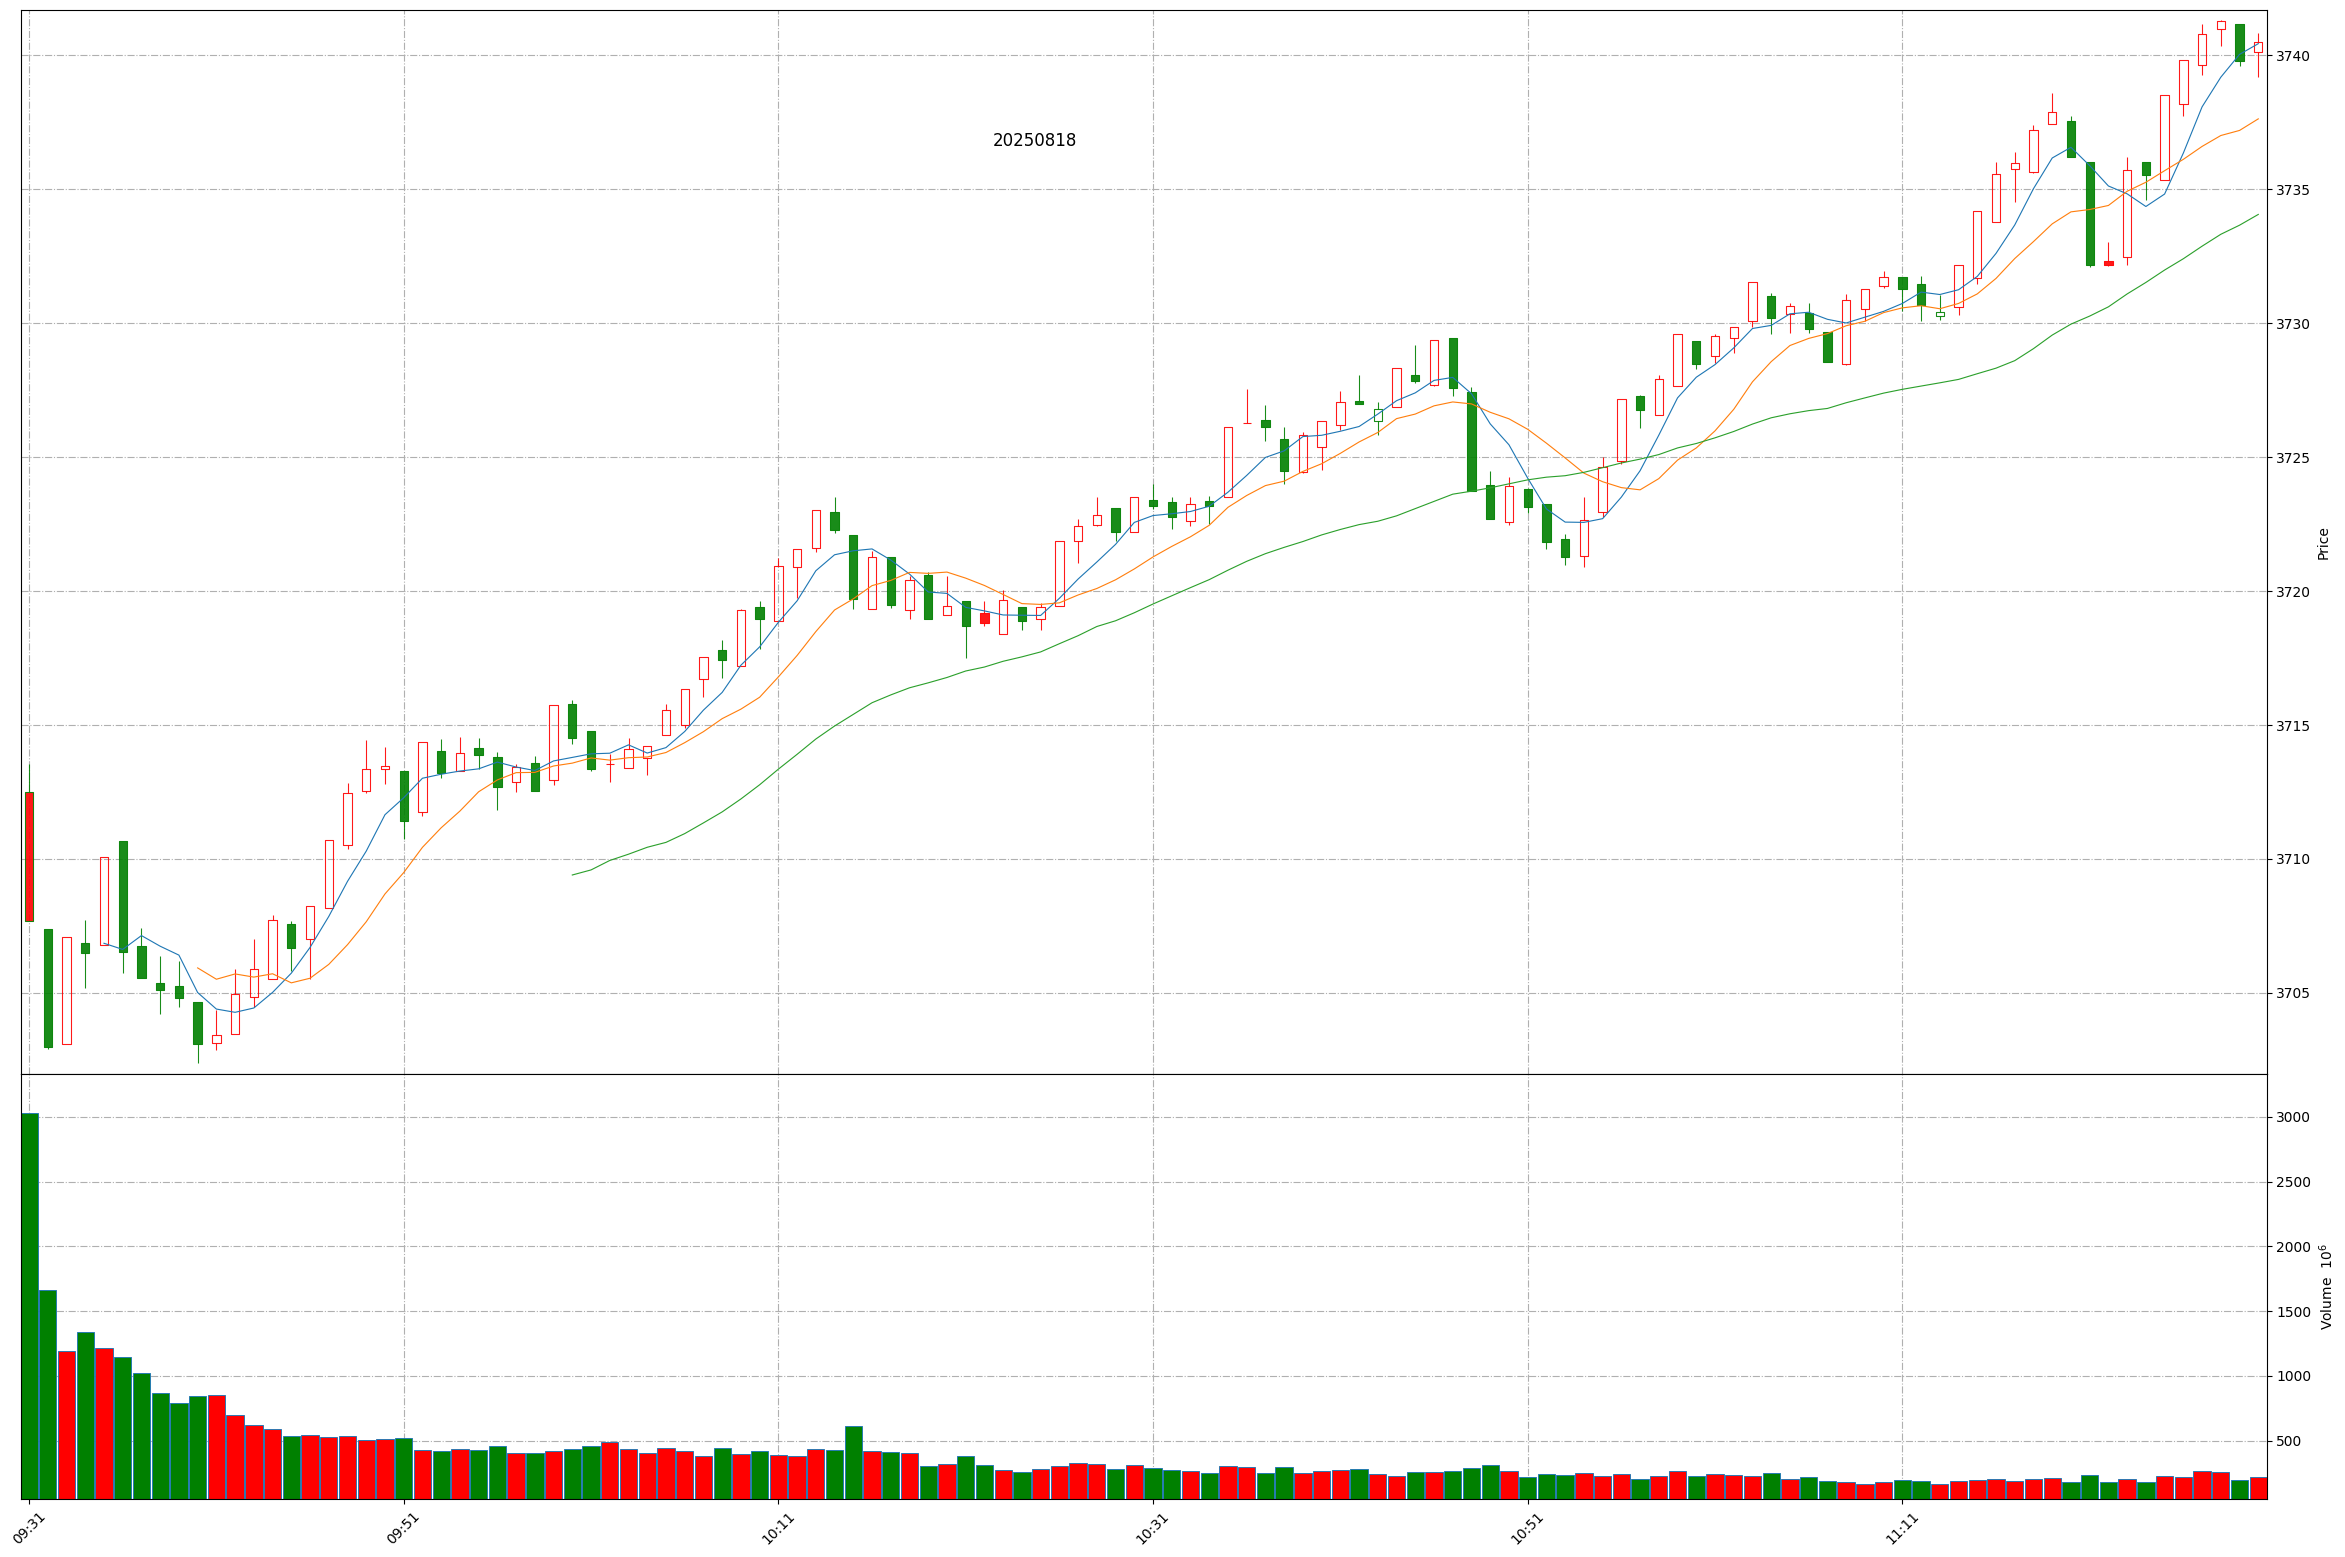
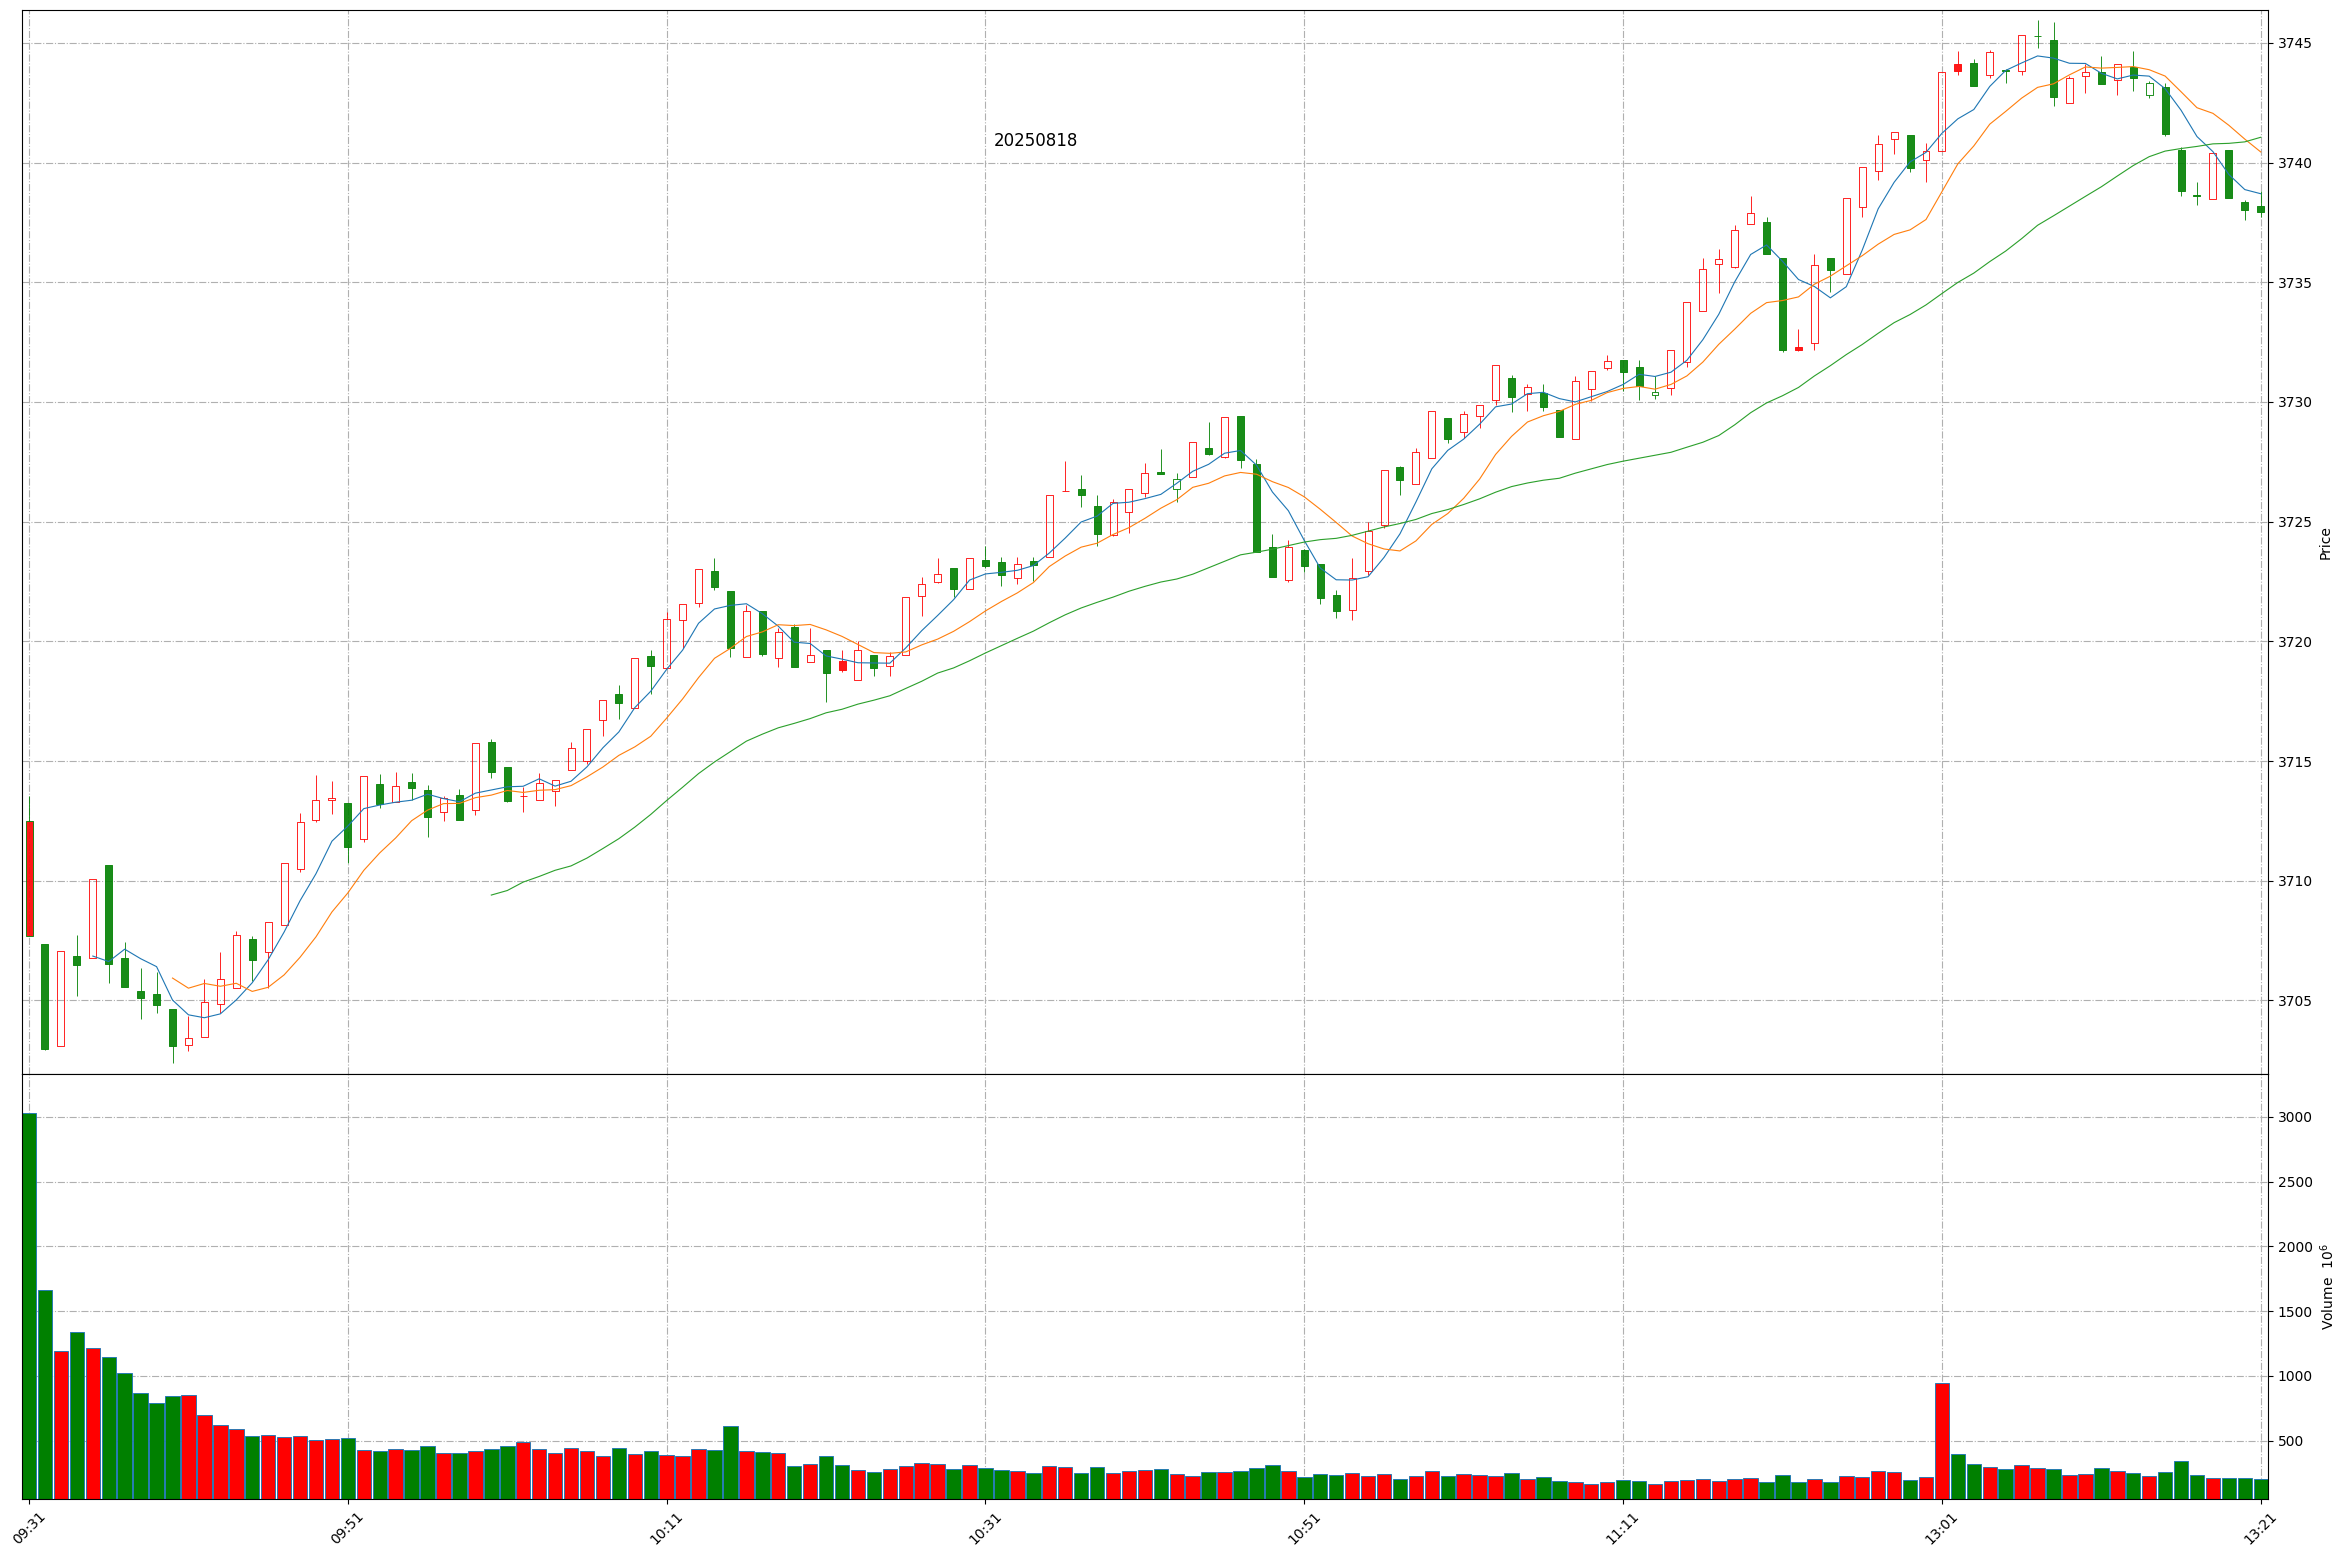
Github action update at 2025-08-18 13:21:12.

Changed region(s): [[0.0, 0.8324, 0.965, 0.9865], [0.0, 0.2775, 0.5915, 0.6782], [0.5603, 0.0, 0.965, 0.3699]]

diff --git a/README.md b/README.md
@@ -1,11 +1,11 @@
 
 # Daily-A-share-market-quotes 每日 A 股指数（5min 更新）- 20250818
 
-### 上证指数 20250818 12:13
+### 上证指数 20250818 13:21
 ![](./fig/2025/8/20250818-sh000001.png)
 
-### 深证成指 20250818 12:13
+### 深证成指 20250818 13:21
 ![](./fig/2025/8/20250818-sz399001.png)
 
-### 北证50 20250818 12:13
+### 北证50 20250818 13:21
 ![](./fig/2025/8/20250818-bj899050.png)
